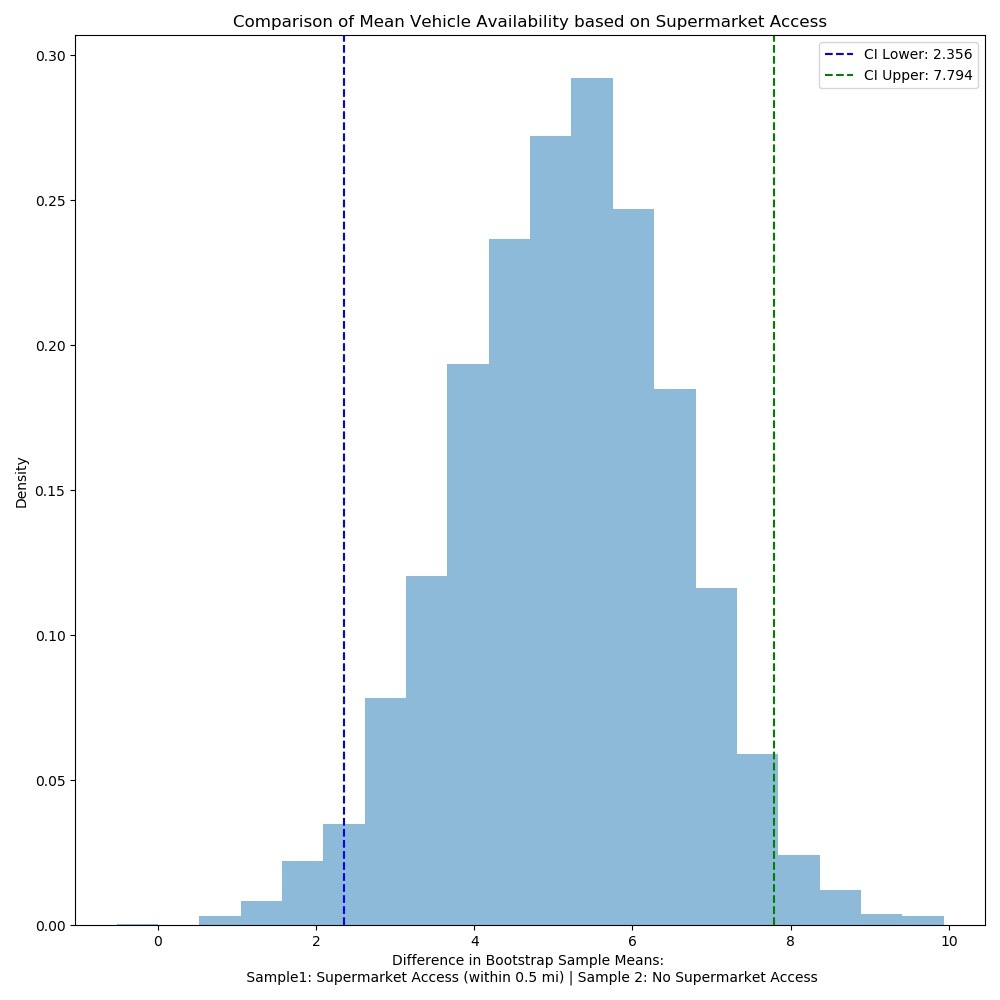
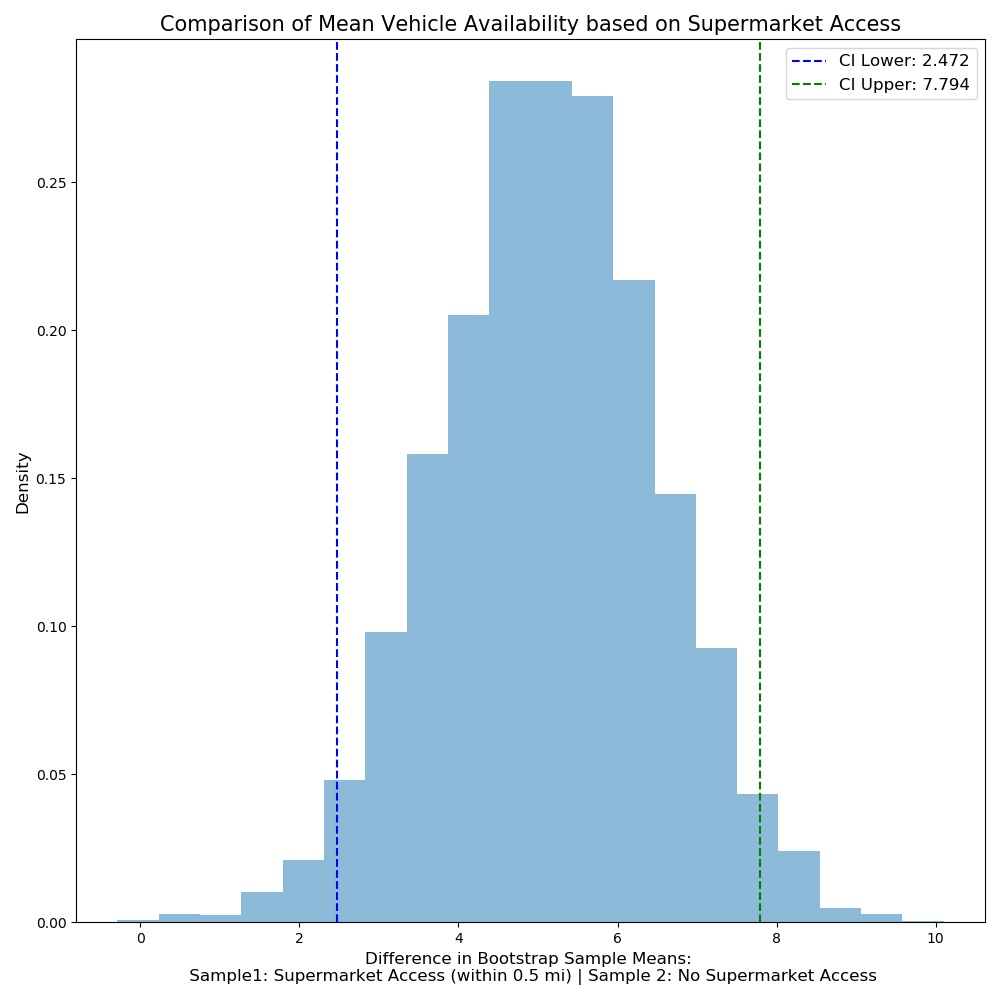
final commits for day

diff --git a/src/functionalization.py b/src/functionalization.py
@@ -23,9 +23,9 @@ def overlay_histograms(ax, arrays, labels, colors, xlabel, title, bin_size = 30,
     for arr, lab, col in zip(arrays, labels, colors):
         ax.hist(arr, label = lab, color = col, bins = bin_size, alpha = alpha, density = density)
     
-    ax.set_title(title)
-    ax.set_xlabel(xlabel)
-    ax.legend()
+    ax.set_title(title, fontsize = 15)
+    ax.set_xlabel(xlabel, fontsize = 12)
+    ax.legend(fontsize = 12)
 
 
 def plot_empirical_data(ax, df, column, label = None, color = 'blue'):
@@ -62,8 +62,8 @@ def overlay_plots(ax, dfs, columns, labels, colors, title):
     '''
     for df, col, lab, c in zip(dfs, columns, labels, colors):
         plot_empirical_data(ax, df, col, label = lab, color = c)
-    ax.set_title(title)
-    ax.legend()
+    ax.set_title(title, fontsize = 15)
+    ax.legend(fontsize = 12)
     # plt.show()
 
 
@@ -123,10 +123,10 @@ def plot_bs_sample_diffs(ax, sample1, sample2, num_samples, statistic, conf, tit
     ax.hist(diffs, density = True, bins = 20, alpha = alpha)
     ax.axvline(x = ci_lower_limit, linestyle = 'dashed', color = 'blue', label = f'CI Lower: {ci_lower_limit.round(3)}')
     ax.axvline(x = ci_upper_limit, linestyle = 'dashed', color = 'green', label = f'CI Upper: {ci_upper_limit.round(3)}')
-    ax.set_xlabel(xlabel)
-    ax.set_title(title)
-    ax.set_ylabel('Density')
-    ax.legend()
+    ax.set_xlabel(xlabel, fontsize = 12)
+    ax.set_title(title, fontsize = 15)
+    ax.set_ylabel('Density', fontsize = 12)
+    ax.legend(fontsize = 12)
     
 
 #MLE For Poisson Distribution

diff --git a/src/hypo_testing_supermarket.py b/src/hypo_testing_supermarket.py
@@ -18,7 +18,7 @@ labels = ['Supermarket within 0.5 mi', 'No Supermarket within 0.5 mi']
 colors = ['blue', 'red']
 
 overlay_histograms(ax[0], data, labels, colors, xlabel = 'Vehicle Availability (%)', title = 'Vehicle Availability by Supermarket Access')
-ax[0].set_ylabel('Density')
+ax[0].set_ylabel('Density', fontsize = 12)
 
 dfs_c = [sprmkt_access, no_sprmkt_access]
 columns_c = ['pct_vehicle_avail', 'pct_vehicle_avail']
@@ -26,9 +26,9 @@ labels_c = ['Supermarket within 0.5 mi', 'No Supermarket within 0.5 mi']
 
 overlay_plots(ax[1], dfs_c, columns_c, labels_c, colors, 'CDF: Poverty Percentage Based on Supermarket Access')
 ax[1].set_xlabel('Vehicle Availability (%)')
-ax[1].set_ylabel('Cumulative Density')
+ax[1].set_ylabel('Cumulative Density', fontsize = 15)
 
-# fig.savefig('../images/pdfandcdf_pct_vehicle_by_supermarket.jpeg')
+fig.savefig('../images/pdfandcdf_pct_vehicle_by_supermarket.jpeg')
 plt.subplots_adjust(top=0.5)
 fig.tight_layout()
 # plt.show()
@@ -40,5 +40,5 @@ num_bs_samps = 5000
 conf_level = 0.95
 plot_bs_sample_diffs(ax, no_sprmkt_access['pct_vehicle_avail'], sprmkt_access['pct_vehicle_avail'], num_bs_samps, np.mean, conf_level, 'Comparison of Mean Vehicle Availability based on Supermarket Access', 'Difference in Bootstrap Sample Means: \n Sample1: Supermarket Access (within 0.5 mi) | Sample 2: No Supermarket Access')
 fig.tight_layout()
-# fig.savefig('../images/Veh_avail_supermarkets_compare_means.jpeg')
+fig.savefig('../images/Veh_avail_supermarkets_compare_means.jpeg')
 # plt.show()

diff --git a/src/hypo_testing_pct_hpss_by_poverty.py b/src/hypo_testing_pct_hpss_by_poverty.py
@@ -18,7 +18,7 @@ labels = ['High Poverty', 'Not High Poverty']
 colors = ['red', 'blue']
 
 overlay_histograms(ax[0], data, labels, colors, xlabel = 'Percent HPSS', title = 'Percent HPSS by Poverty Classification')
-ax[0].set_ylabel('Density')
+ax[0].set_ylabel('Density', fontsize = 12)
 
 dfs_c = [high_pov, not_high_pov]
 columns_c = ['pct_hpss', 'pct_hpss']
@@ -26,10 +26,10 @@ labels_c = ['High Poverty', 'Not High Poverty']
 
 overlay_plots(ax[1], dfs_c, columns_c, labels_c, colors, 'CDF: Percent HPSS by Poverty Classification')
 ax[1].set_xlabel('Percent HPSS')
-ax[1].set_ylabel('Cumulative Density')
+ax[1].set_ylabel('Cumulative Density', fontsize = 12)
 
 # fig.savefig('../images/pdfandcdf_pct_HPSS_by_poverty.jpeg', pad_inches = 0)
-# plt.show()
+plt.show()
 
 
 #####HYPOTHESIS TESTING: Median Percent HPSS by Poverty Classification#####
@@ -40,4 +40,4 @@ conf_level = 0.95
 plot_bs_sample_diffs(ax, high_pov['pct_hpss'], not_high_pov['pct_hpss'], num_bs_samps, np.median, conf_level, 'Comparison of Median %HPSS based on Poverty Classification', 'Difference in Bootstrap Sample Medians: \n Sample1: High Poverty Areas (> 20%) | Sample 2: Not High Poverty Areas (< 20%)')
 fig.tight_layout()
 # fig.savefig('../images/Percent_HPSS_compare_medians.jpeg')
-# plt.show()
+plt.show()
